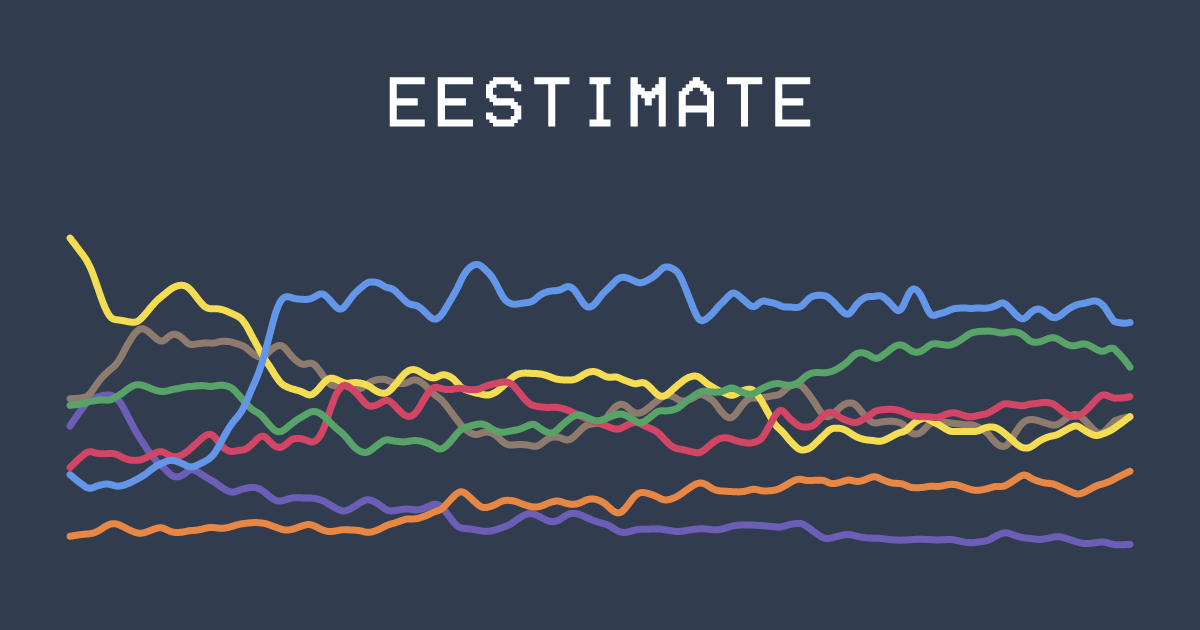
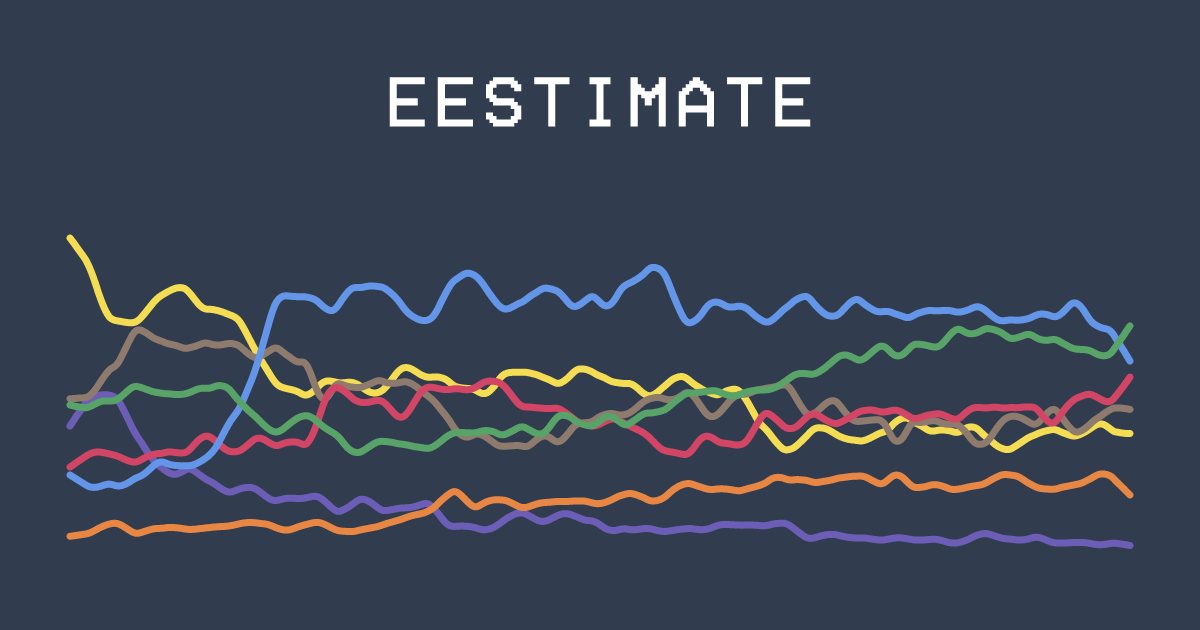
Update embed [automated]

diff --git a/index.html b/index.html
@@ -10,13 +10,13 @@
   <meta property="og:type" content="website">
   <meta property="og:url" content="https://bananasareviolet.github.io/eestimate/">
   <meta property="og:title" content="Eestimate, a Riigikogu polling tracker">
-  <meta property="og:description" content="Eestimate is an Estonian party preference polling tracker and aggregator. Isamaa is leading Centre by 4.4 points. There are 122 days or fewer until the next Riigikogu election.">
+  <meta property="og:description" content="Eestimate is an Estonian party preference polling tracker and aggregator. Centre is leading Isamaa by 3.5 points. There are 122 days or fewer until the next Riigikogu election.">
   <meta property="og:image" content="https://bananasareviolet.github.io/eestimate/eestimate-embed.png">
   <meta property="og:image:width" content="1200">
   <meta property="og:image:height" content="630">
   <meta name="twitter:card" content="summary_large_image">
   <meta name="twitter:title" content="Eestimate, a Riigikogu polling tracker">
-  <meta name="twitter:description" content="Eestimate is an Estonian party preference polling tracker and aggregator. Isamaa is leading Centre by 4.4 points. There are 122 days or fewer until the next Riigikogu election.">
+  <meta name="twitter:description" content="Eestimate is an Estonian party preference polling tracker and aggregator. Centre is leading Isamaa by 3.5 points. There are 122 days or fewer until the next Riigikogu election.">
   <meta name="twitter:image" content="https://bananasareviolet.github.io/eestimate/eestimate-embed.png">
   <!-- EESTIMATE_OG_END -->
 
